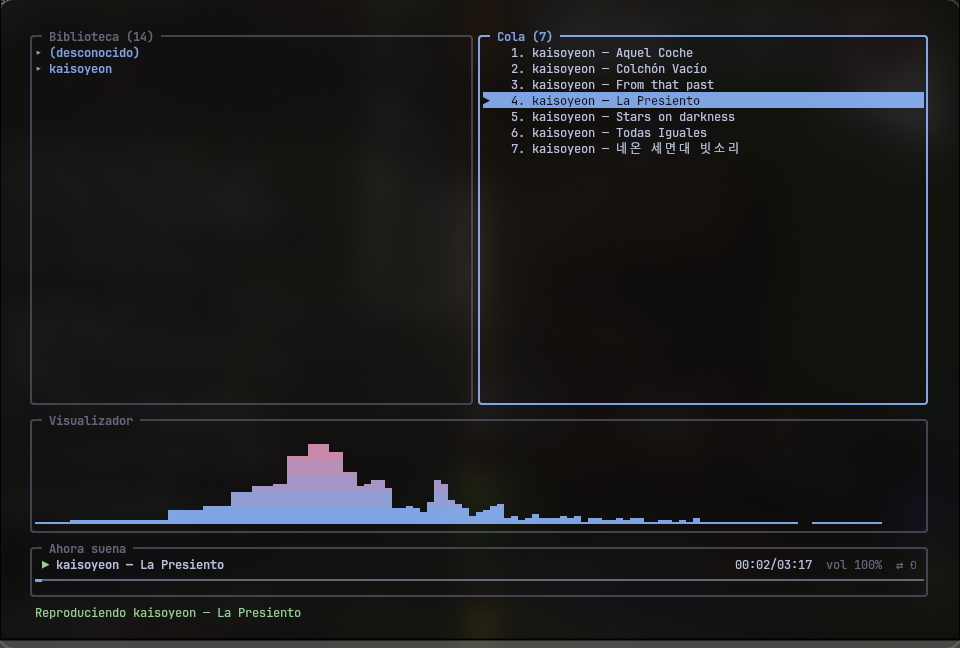
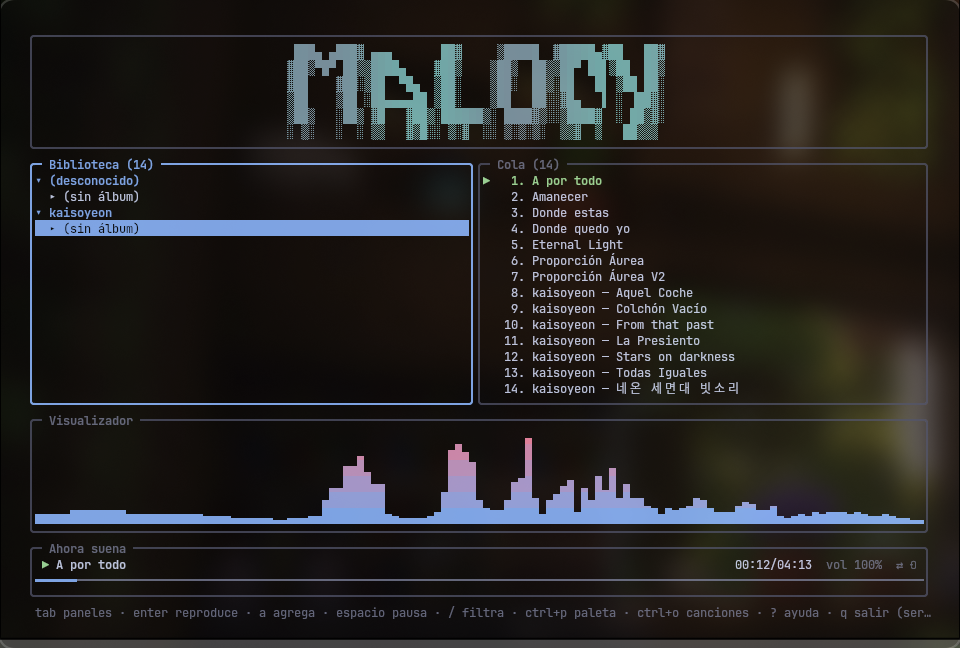
Better documentation

diff --git a/README.md b/README.md
@@ -7,9 +7,17 @@ Reproductor de música local para terminal (comando `maly`), estilo
 btop/lazygit: TUI con paneles, servicio en segundo plano con socket Unix
 y CLI tipo `mpc`/`playerctl`, todo en un solo binario.
 
-## Screenshots
+---
+
+## TUI
 
 ![Vista previa de Malody Mallow: biblioteca, cola, visualizador y reproducción actual](pictures/maly.jpg)
+
+![Paleta de comandos](pictures/commands.jpg)
+
+![Selector de canciones](pictures/selector.jpg)
+
+---
 
 ## Características
 